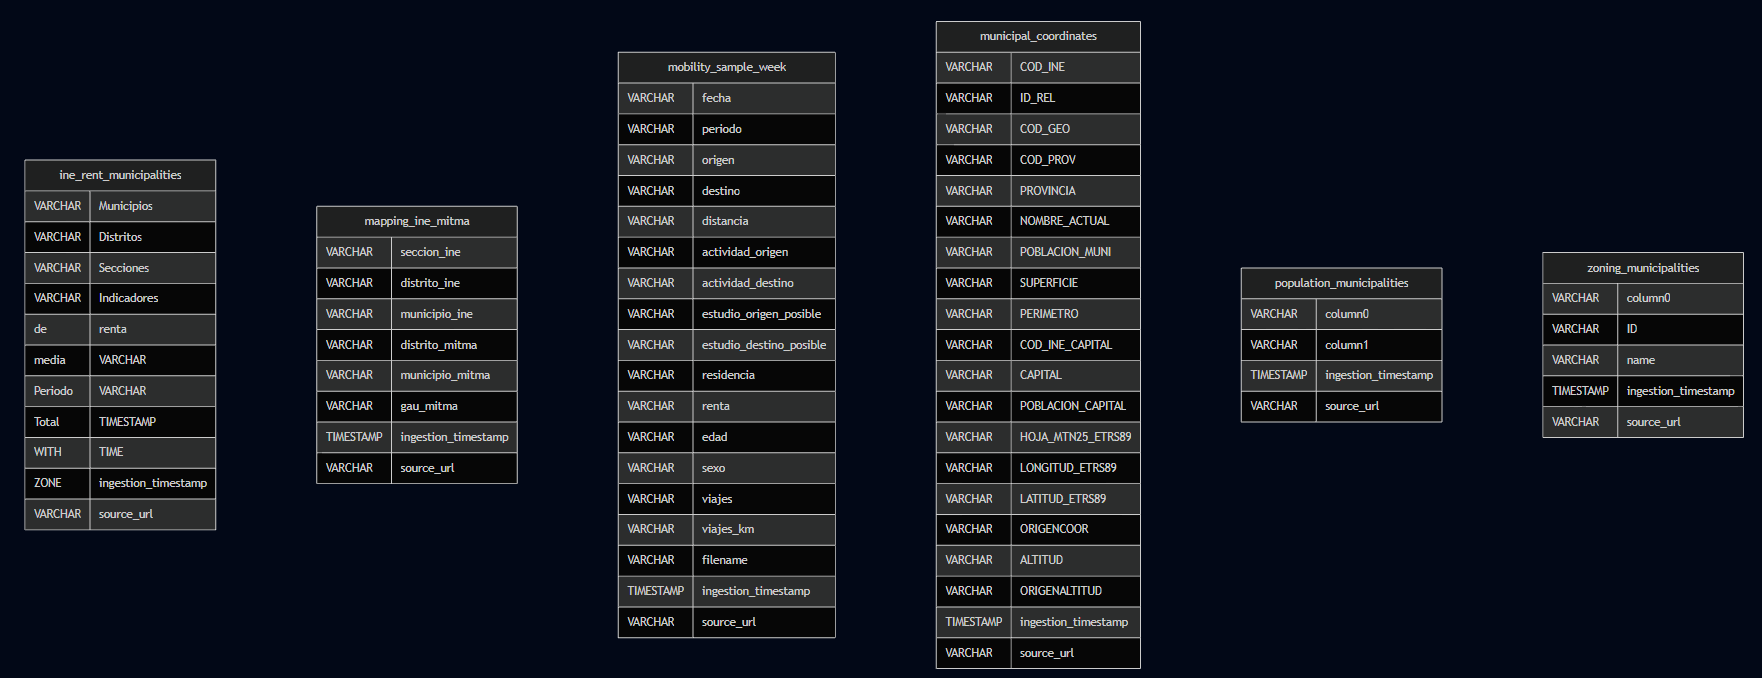
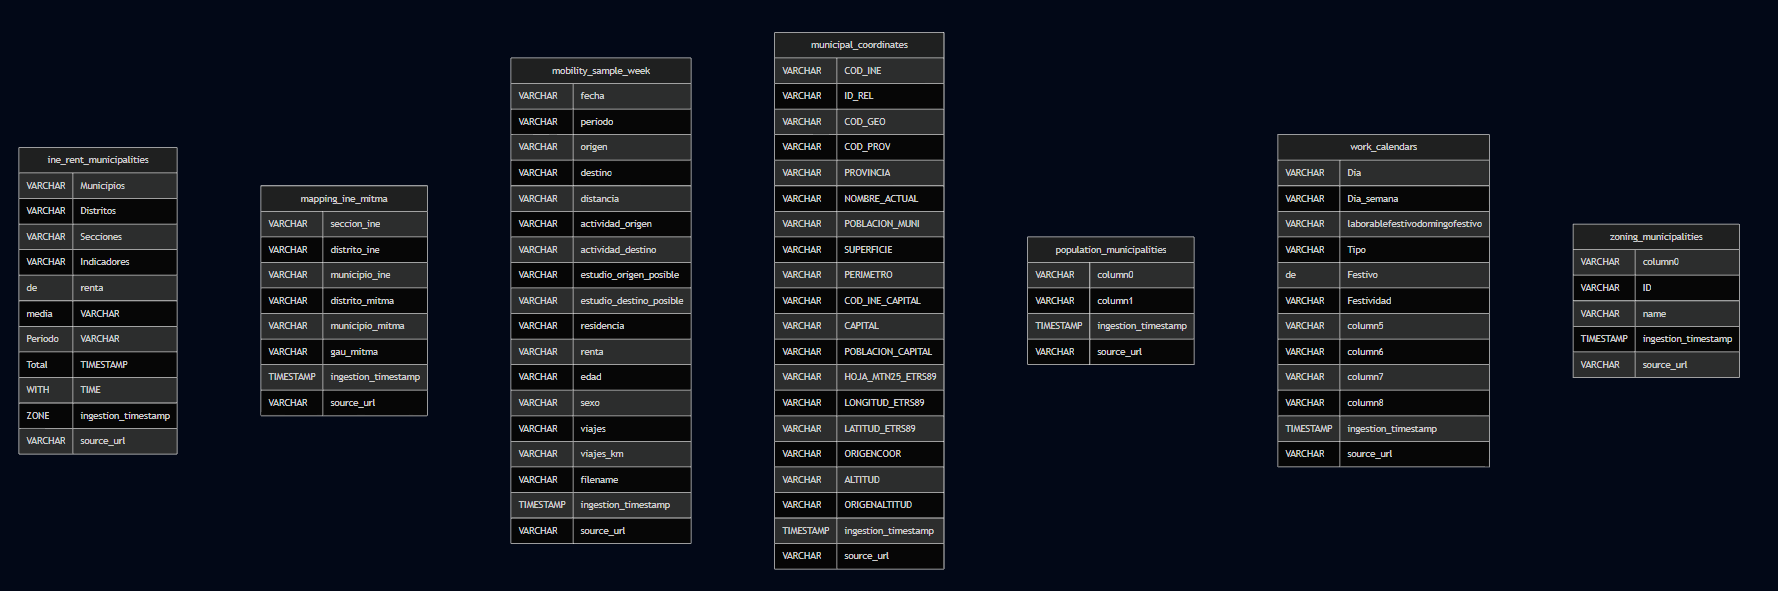
docs: Bronze and silver with national festivities. New Gold v1

diff --git a/docs/sprint_logs/Sprint-2.md b/docs/sprint_logs/Sprint-2.md
@@ -29,7 +29,7 @@ This section details the step-by-step implementation of the 3-tier lakehouse PoC
 
 ### 3.1. Bronze Layer Ingestion `(In progress)`
 
-The Bronze layer serves as the raw data reservoir for the Lakehouse, adhering to the principle of **Schema-on-Read**. The primary objective at this stage is to ingest data from public sources (MITMA, INE, CNIG) with minimal transformation, ensuring fidelity to the original source while preparing the storage structure for scalability.
+The Bronze layer serves as the raw data reservoir for the Lakehouse, adhering to the principle of **Schema-on-Read**. The primary objective at this stage is to ingest data from public sources (MITMA, INE, CNIG, Open Data) with minimal transformation, ensuring fidelity to the original source while preparing the storage structure for scalability.
 
 **1. Design Principles & Metadata**
 To ensure auditability and robustness, we implemented a standardized ingestion pattern for all tables:
@@ -44,7 +44,7 @@ The core mobility dataset (`mobility_sample_week`) presents a Big Data challenge
 *   **Implementation:** A "Define-Configure-Insert" pattern was used. We first defined the schema, explicitly configured the partition key via `SET PARTITIONED BY (fecha)`, and then inserted the data. This forces DuckLake to write data into physically separated folders (e.g., `/fecha=20230508/...`), optimizing downstream read performance by allowing query engines to skip irrelevant days.
 
 **3. Auxiliary Data (Dimensions) Handling**
-Contextual datasets (Zoning, Population, Economics) were ingested as unpartitioned tables due to their small size. A flexible Python ingestion function was developed to handle the heterogeneous formats of Spanish public administration files:
+Contextual datasets (Zoning, Population, Economics, Calendars) were ingested as unpartitioned tables due to their small size. A flexible Python ingestion function was developed to handle the heterogeneous formats of Spanish public administration files:
 *   **Separator Handling:** Dynamically switching between Semicolon (`;`) for INE data and Pipe (`|`) for MITMA data.
 *   **Header Repair:** MITMA dictionary files (e.g., `zoning_municipalities`) often lack standard headers or contain malformed first rows (e.g., `|ID|name`). We utilized `header=True` logic to correctly interpret these raw structures without manual intervention.
 
@@ -59,6 +59,7 @@ The following tables have been successfully established in the `lakehouse.bronze
 | **`mapping_ine_mitma`** | Map | MITMA | Cross-reference table linking MITMA zoning codes to INE administrative codes. |
 | **`ine_rent_municipalities`** | Metric | INE | Average net income per person by municipality. |
 | **`municipal_coordinates`** | Dim | CNIG | Geospatial centroids (Lat/Lon) for distance calculations. |
+| **`work_calendars`** | Dim | Open Data | Daily calendar identifying working days, weekends, and national holidays. |
 
 **5. Schema:**
 - ![alt text](../diagrams/Bronze_Schema_diagramS2.png)
@@ -66,28 +67,27 @@ The following tables have been successfully established in the `lakehouse.bronze
 
 ### 3.2. Silver Layer Transformation `(In progress)`
 
-### 3.2. Silver Layer Transformation `(In progress)`
-
 The Silver layer represents the **"Trusted"** zone of the Lakehouse. In this stage, we transitioned from raw strings to strongly typed data, applied business rules for data integration, and established a robust **Star Schema** architecture utilizing **Surrogate Keys**. The primary transformation engine used was DuckDB SQL.
 
 **1. Data Cleaning & Type Casting Strategy**
-A major challenge was handling the heterogeneity of Spanish numeric formats in the Bronze text files. We implemented a robust casting strategy to prevent data loss:
+A major challenge was handling the heterogeneity of Spanish numeric and date formats in the Bronze files. We implemented a robust casting strategy:
 *   **Spanish Number Handling:** Raw inputs often used dots for thousands and commas for decimals (e.g., `"1.200,50"`). We applied a standardization functions chain: `TRY_CAST(REPLACE(REPLACE(col, '.', ''), ',', '.') AS DOUBLE)`.
-*   **The "Zero" Trap:** For integer metrics (Population), we strictly cast to `DOUBLE` before `BIGINT` (e.g., `CAST(TRY_CAST('10.0' AS DOUBLE) AS BIGINT)`). This prevented truncating values like `"50.0"` into `"5"`, a common error when using string manipulation on floating-point strings.
-*   **Safe Casting:** `TRY_CAST` was used universally to return `NULL` instead of crashing the pipeline when encountering malformed data.
+*   **The "Zero" Trap:** For integer metrics (Population), we strictly cast to `DOUBLE` before `BIGINT`. This prevented truncating values like `"50.0"` into `"5"`, a common error when using string manipulation on floating-point strings.
+*   **Calendar Standardization:** Dates in Spanish format (`DD/MM/YYYY`) were parsed into standard SQL `DATE` objects. We also normalized free-text holiday descriptions, mapping variations (e.g., "fiesta nacional", "festivo nacional") to canonical categories (e.g., `'NationalFestive'`).
 
 **2. Dimensional Modeling (Surrogate Key Architecture)**
 We constructed a Star Schema centered around a master **`dim_zones`** table. Crucially, we decoupled the Lakehouse from external data changes by moving from Natural Keys (Raw Text Codes) to **Surrogate Keys** (Auto-generated Sequential Integers).
-*   **Abstraction Layer:** The `zone_id` is now a generated `BIGINT`. All satellite tables (`metric_population`, `metric_ine_rent`) were updated to lookup this internal ID via the Dimension table, ensuring referential integrity across the system.
-*   **Zone Deduplication:** We detected "Aggregated Zones" (`_AM` suffix) in the MITMA dataset where one transport zone represented multiple municipalities. To preserve **1:1 cardinality** for the ID generation, we grouped these duplicates, selecting a representative INE code for linkage.
-*   **Geospatial Integration:** Linking coordinates required harmonizing INE Nomenclator codes (11 digits) with Municipality codes (5 digits). We implemented a `LEFT(col, 5)` logic with safe integer comparison to join them to the new Surrogate IDs.
+*   **Abstraction Layer:** The `zone_id` is now a generated `BIGINT`. All satellite tables were updated to lookup this internal ID via the Dimension table, ensuring referential integrity across the system.
+*   **Zone Deduplication:** We detected "Aggregated Zones" (`_AM` suffix) in the MITMA dataset. To preserve **1:1 cardinality** for the ID generation, we grouped these duplicates, selecting a representative INE code for linkage.
+*   **Geospatial Integration:** Linking coordinates required harmonizing INE Nomenclator codes (11 digits) with Municipality codes (5 digits). We implemented a `LEFT(col, 5)` logic with safe integer comparison.
+*   **Holiday Bridge Strategy:** To model National Holidays (which apply universally to all territories), we implemented a **Bridge Table** (`bridge_zones_festives`). We utilized a `CROSS JOIN` strategy to propagate distinct National Holiday events to every `zone_id`, creating a dense lookup table that links specific dates and zones to festive types.
 
 **3. Fact Table Optimization**
 The `fact_mobility` table was transformed to enforce a strict Schema:
 *   **Integer-Based Foreign Keys:** During insertion, we performed `LEFT JOIN` lookups against `dim_zones` to resolve raw text codes (e.g., `'28079'`) into system Integer IDs. This optimizes storage and join performance in the Gold layer.
-*   **External Zone Handling:** International codes (e.g., `'PT170'`, `'FR...'`) which do not exist in the Spanish Master Dimension are automatically set to `NULL`. This architectural decision prioritizes schema strictness (Foreign Keys must be Integers) over international granularity, which aligns with the project's focus on Spanish mobility.
+*   **External Zone Handling:** International codes (e.g., `'PT170'`) which do not exist in the Spanish Master Dimension are automatically set to `NULL`. This prioritizes schema strictness over international granularity.
 *   **Partition Maintenance:** The `fecha` partition strategy from Bronze was preserved.
-*   **Temporal Enrichment:** We pre-calculated the `day_of_week` and converted strings to `DATE` objects to facilitate "Typical Day" analysis.
+*   **Temporal Enrichment:** We pre-calculated the `day_of_week` to facilitate "Typical Day" analysis.
 
 **4. Silver Artifacts**
 The following tables constitute the Core Lakehouse layer:
@@ -97,18 +97,45 @@ The following tables constitute the Core Lakehouse layer:
 | **`fact_mobility`** | Fact | Partitioned by Date. IDs resolved to `BIGINT` (Surrogate). Non-Spanish zones set to `NULL`. |
 | **`dim_zones`** | Dim | **Surrogate Key (1, 2, 3...)**. Deduplicated. Cleaned `NA` strings to SQL `NULL`. |
 | **`dim_coordinates`** | Dim | Joined to Surrogate ID. Centroids calculated via `AVG`. |
+| **`dim_festive_types`** | Dim | Normalized distinct list of holiday categories (e.g., 'NationalFestive'). |
+| **`bridge_zones_festives`** | Bridge | Links Zones to Dates and Holiday types. Uses Cross Join to apply national events to all zones. |
 | **`metric_population`** | Metric | Linked to Surrogate ID. Safe Double-to-Int casting. Filtered for 2023. |
 | **`metric_ine_rent`** | Metric | Linked to Surrogate ID. Parsed text fields (`"Code Name"`) to extract matching logic. |
 
----
 
 **5. Schema:**
 - ![alt text](../diagrams/Silver_Schema_diagramS2.png)
 
 ---
 
-### 3.3. Gold Layer Aggregation `(In progress)`
+### 3.3. Gold Layer Analytics `(In progress)`
 
-...
+The Gold layer constitutes the **Analytical/Mart** zone of the Lakehouse. Unlike the Silver layer, which focuses on data integrity and normalization, the Gold layer is purpose-built to answer specific business questions. It consists of highly aggregated, business-ready tables derived from complex joins between the Fact and Dimension tables.
+
+**1. Business Question 1: Mobility Pattern Characterization**
+To identify "Typical Day" patterns, we moved beyond simple date groupings and implemented a dynamic categorization engine:
+*   **Calendar Logic:** We implemented a Common Table Expression (CTE) to generate a continuous date series. This was joined with the `bridge_zones_festives` table to dynamically classify every date into three distinct categories: `'weekday'`, `'weekend'`, or `'festive'`.
+*   **Hourly Aggregation:** We aggregated the billions of records in `fact_mobility` to calculate the average hourly trip volume (`SUM(trips) / count_of_days`) for each category. This allows transport experts to visualize the "Pulse of the City" distinct from calendar anomalies.
+
+**2. Business Question 2: Infrastructure Gap Identification (Gravity Model)**
+To identify underserved areas, we implemented a classic Gravity Model ($T_{ij} \propto \frac{P_i E_j}{d_{ij}^2}$) using DuckDB's advanced analytical capabilities:
+*   **Spatial Computation:** We utilized the DuckDB `spatial` extension (`st_distance_spheroid`) to calculate the precise geodesic distance ($d_{ij}$) between the centroids of every Origin-Destination pair stored in `dim_coordinates`. A safety clamp (`GREATEST(0.5, ...)`) was applied to prevent division-by-zero errors for intra-zonal trips.
+*   **Model Enrichment:** The model integrates three Silver sources:
+    *   **Mass ($P_i$):** Derived from `metric_population` linked to the Origin.
+    *   **Attraction ($E_j$):** Derived from `metric_ine_rent` (Income per capita) linked to the Destination.
+    *   **Friction ($d_{ij}^2$):** The squared distance acting as the impedance factor.
+*   **Gap Scoring:** We calculated a `mismatch_ratio` (Actual Trips / Estimated Potential). A low ratio suggests high theoretical potential but low actual flow, indicating a likely infrastructure gap (e.g., lack of direct public transport).
+
+**3. Gold Artifacts**
+The following tables represent the final analytical deliverables:
+
+| Table Name | Purpose | Key Metrics |
+| :--- | :--- | :--- |
+| **`daily_average_trips`** | **Typical Day Analysis**. Aggregates mobility by hour and day type (Weekday/Weekend/Festive). | `average_hourly_trips`, `day_type` |
+| **`gold_infrastructure_gaps`** | **Gravity Model**. Comparing theoretical demand vs. actual flow to find gaps. | `estimated_potential_trips`, `mismatch_ratio`, `geographic_distance_km` |
+
+
+**5. Schema:**
+- ![alt text](../diagrams/Gold_Schema_diagramS2.png)
 
 ---
